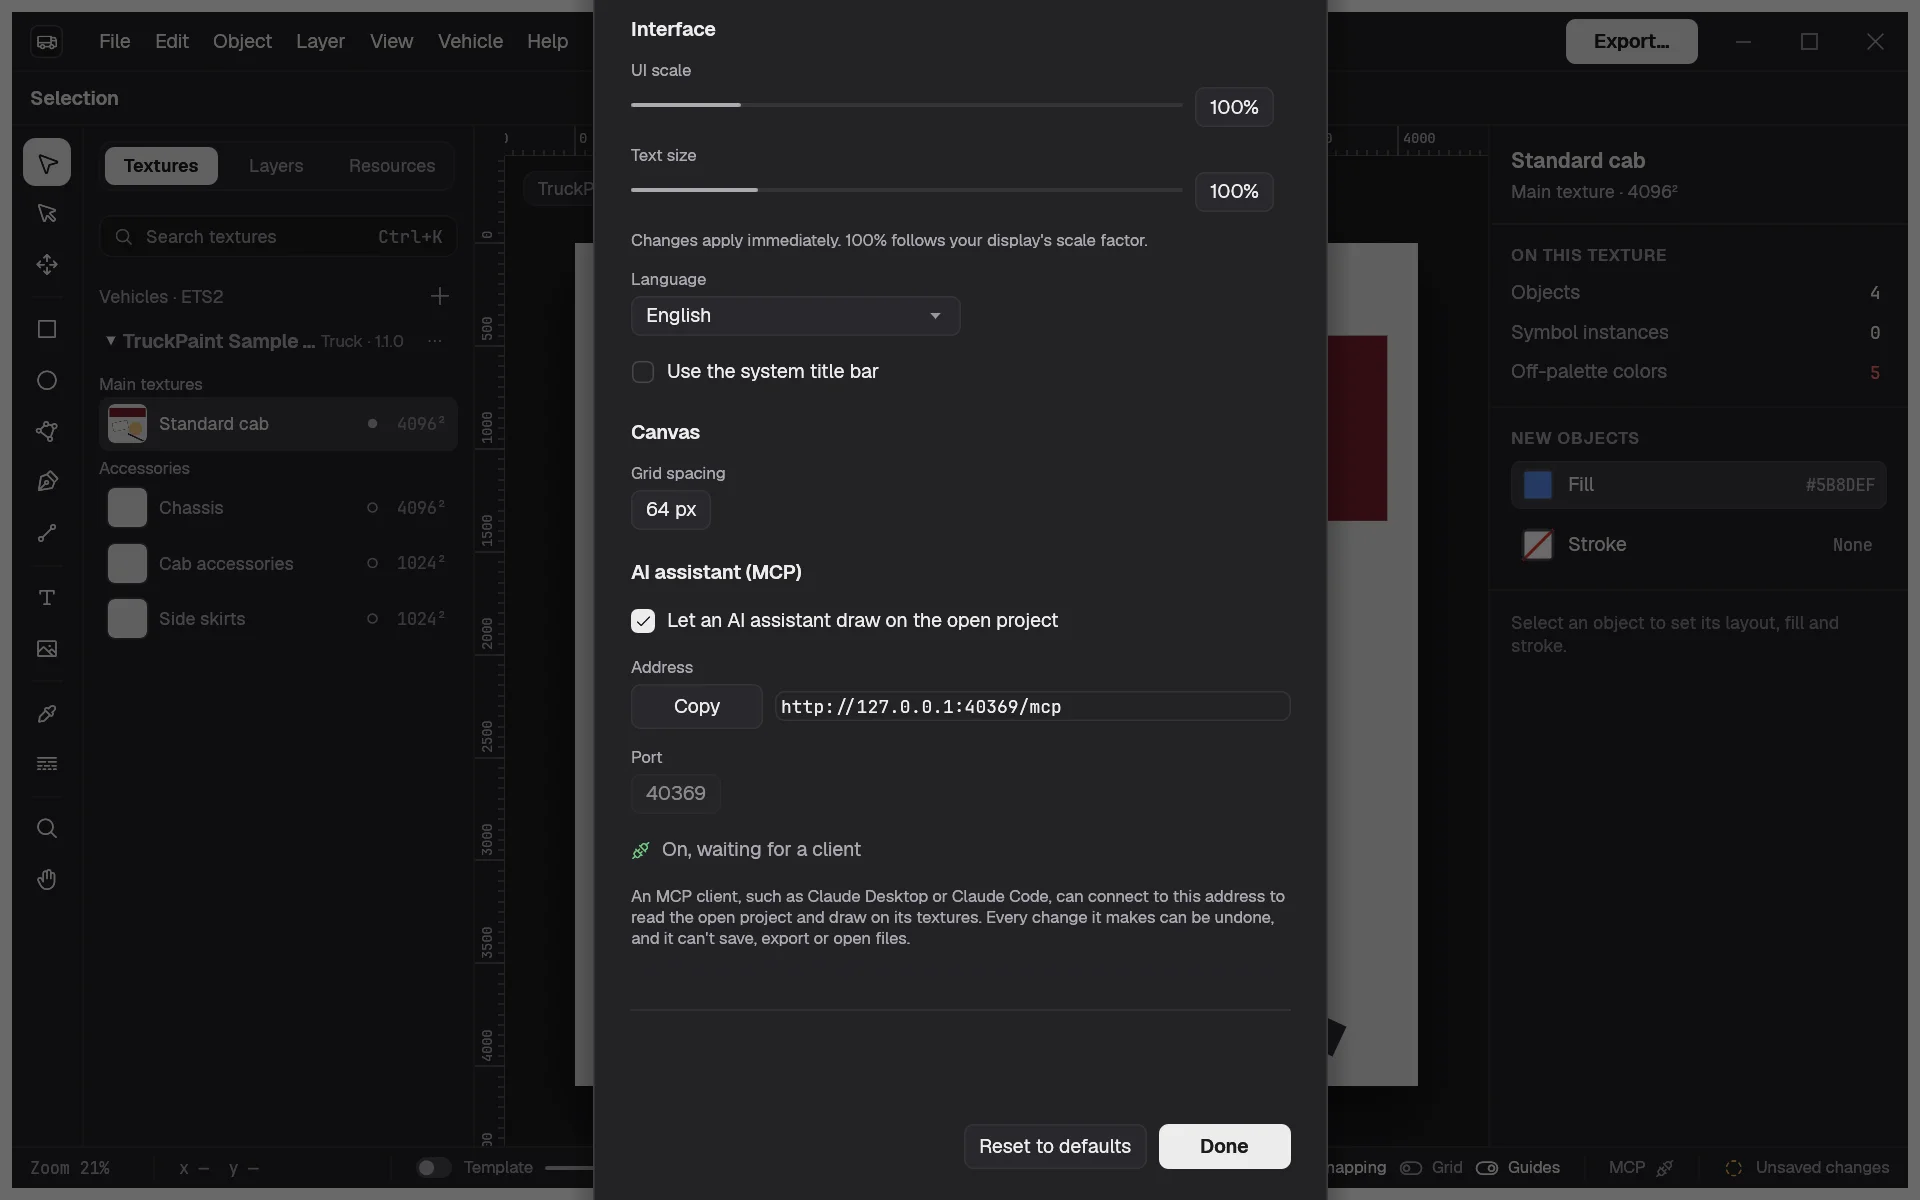
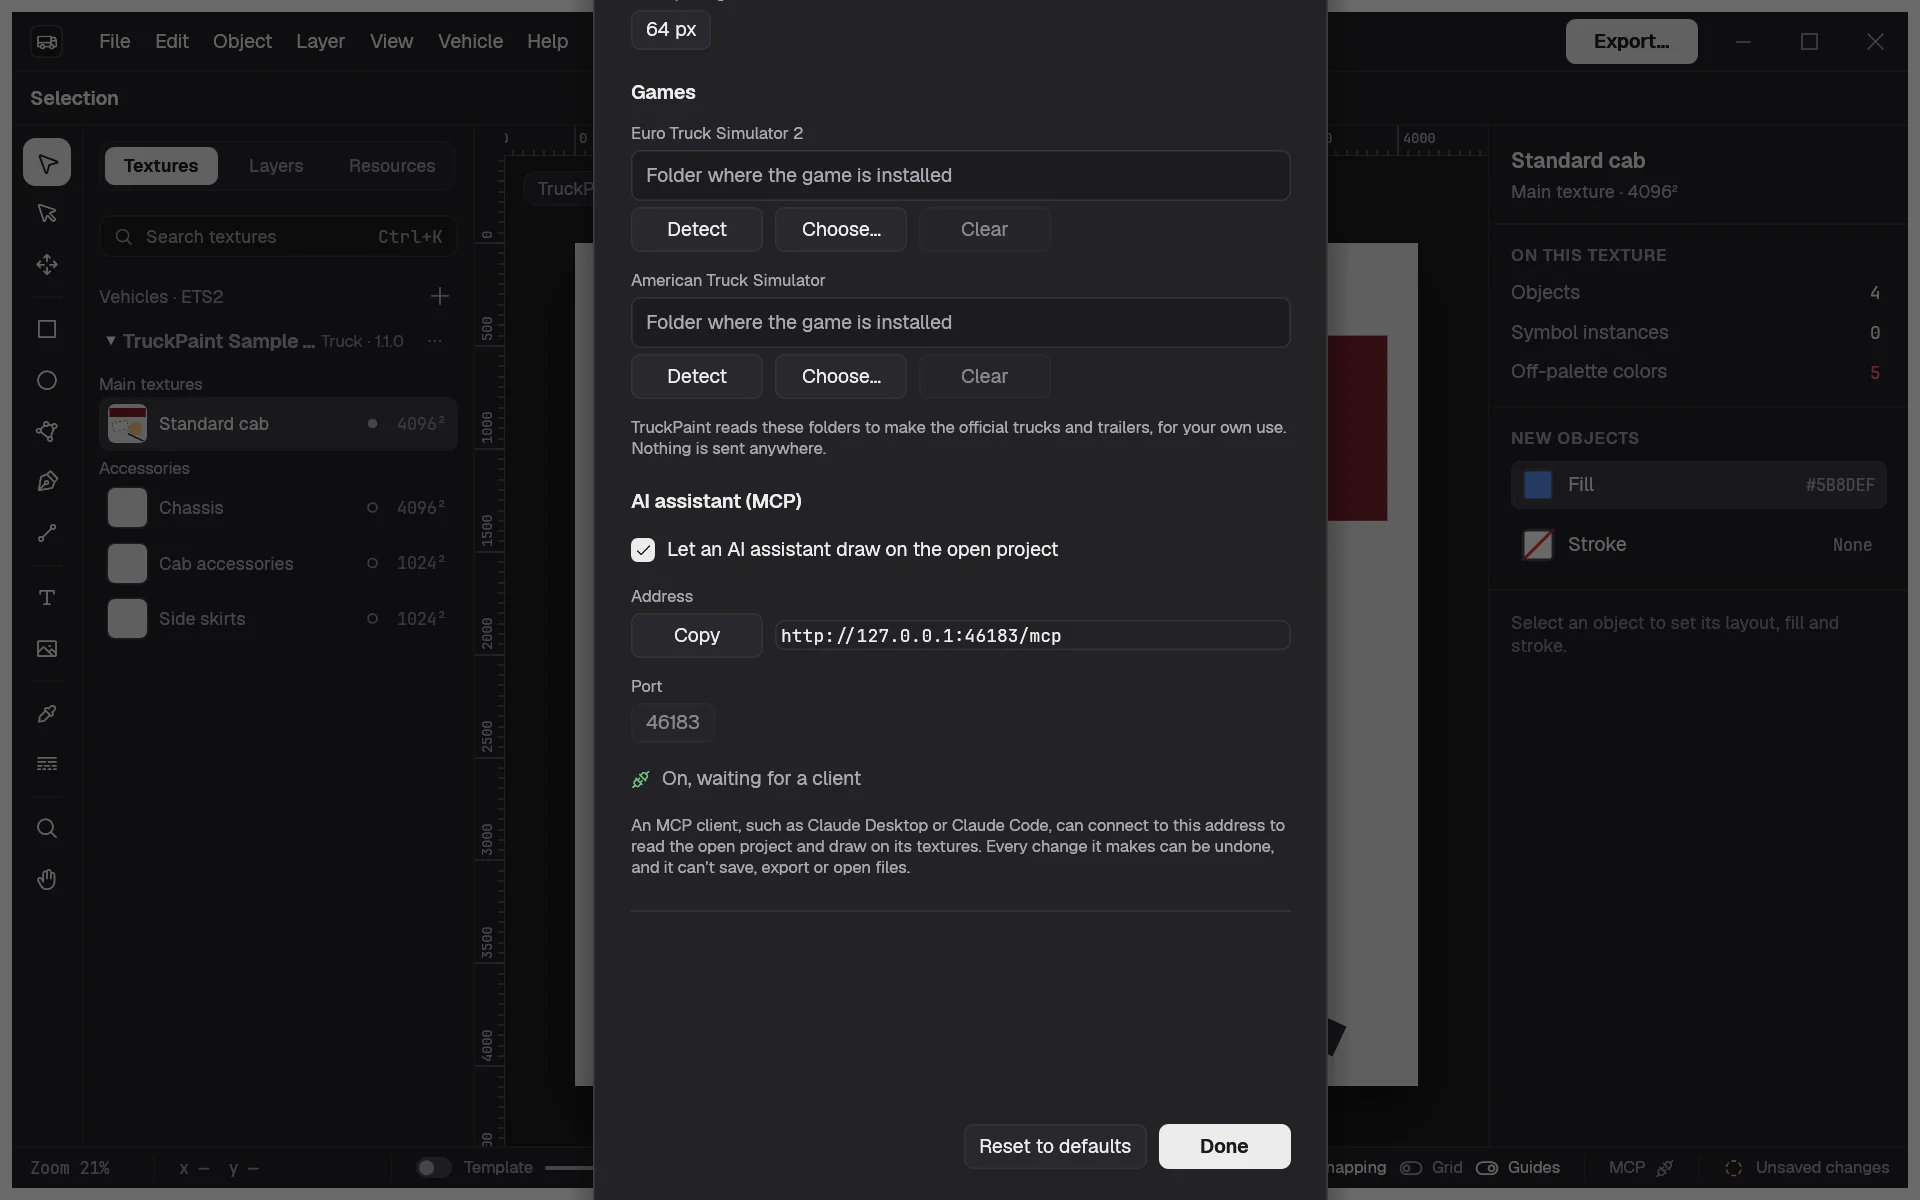
fix: AI assistant settings in view, and at most 8 extractions at once (#113)
* fix: show the AI assistant section when Preferences opens from the status bar

The first frame of Preferences used up the reveal before the dialog could
scroll, so with the new Games section the AI assistant settings stayed out
of view. Render the AI assistant doc screenshot again.

* fix: run at most 8 vehicle extractions at once

Half the cores on a large machine still started enough builds at once to
run out of memory and crash the session.

---------

diff --git a/crates/tp-app/src/ui/dialogs.rs b/crates/tp-app/src/ui/dialogs.rs
@@ -545,8 +545,15 @@ fn preferences(
                 });
             ctx.data_mut(|d| d.insert_temp(body_id, out.content_size.y));
         } else {
+            // Unmeasured first frame: keep the reveal for the frame that may scroll.
+            let mut unmeasured = false;
+            let reveal = if body == 0.0 {
+                &mut unmeasured
+            } else {
+                reveal_mcp
+            };
             let top = ui.cursor().top();
-            preferences_body(ctx, ui, prefs, title_bar, mcp, reveal_mcp, games);
+            preferences_body(ctx, ui, prefs, title_bar, mcp, reveal, games);
             let used = ui.cursor().top() - top;
             ctx.data_mut(|d| d.insert_temp(body_id, used));
         }

diff --git a/crates/tp-pack/src/extract/mod.rs b/crates/tp-pack/src/extract/mod.rs
@@ -1134,9 +1134,10 @@ pub fn run(options: &Options) -> Result<Batch, String> {
             }
         }
     };
-    // Half the cores: concurrent builds must leave the desktop memory and CPU.
+    // Half the cores, at most 8: concurrent builds must leave the desktop memory and CPU.
+    const MAX_WORKERS: usize = 8;
     let cores = std::thread::available_parallelism().map_or(1, |n| n.get());
-    let workers = (cores / 2).clamp(1, vehicles.len().max(1));
+    let workers = (cores / 2).min(MAX_WORKERS).clamp(1, vehicles.len().max(1));
     let next = AtomicUsize::new(0);
     let done = Mutex::new(Vec::new());
     std::thread::scope(|scope| {
